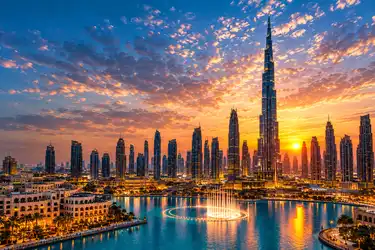
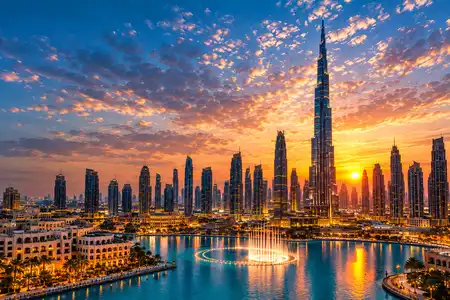
finalizdo projeto

diff --git a/local.html b/local.html
@@ -31,12 +31,19 @@
    </header>
    <nav></nav>
    <main>
+
       <picture class="piture-img">
+         <div class="text-hero">
+            <p>WELCOME TO DUBAI</p>
+            <h2>The City of <br> <span>Dreams</span></h2>
+            <p>A unique destination with<br>modern life, stuning architecture<br>and rich culture.</p>
+
+         </div>
          <source media="(min-width: 1000px)" srcset="imagens/local-grande.webp">
          <source media="(min-width: 500px)" srcset="imagens/local-media.webp">
-         <img src="imagens/local-pequena1.webp" alt="Imagen por do sol Dubai murj Burj khalifa">
+         <img src="imagens/local-pequena.webp" alt="Imagen por do sol Dubai murj Burj khalifa">
       </picture>
-      <section class="cards">
+      <section class="cards cad1">
          <div class="header">
             <img src="imagens/templo-branco.svg" alt="Icone de um museu na cor branca">
             <h2>Date</h2>
@@ -100,7 +107,7 @@
             </div>
          </aside>
       </section>
-      <section class="cards">
+      <section class="cards cad2">
          <div class="header">
             <img src="imagens/clear_day.svg" alt="Icone do Sol em um dia com ceu limpo">
             <h2>Weather</h2>
@@ -109,40 +116,40 @@
             <picture class="weather-img">
                <img class="img-clima" src="imagens/snowing.webp" alt="Iconde uma nuvem nevando">
             </picture>
-                  <div class="container-linha">
-                     <img src="imagens/thermometer.png" alt="Icone de um globo">
-                     <div class="name-value">
-                        <p class="name">Temperature:</p>
-                        <p class="value" id="temperature">10</p>
-                     </div>
-                  </div>
-                  <div class="container-linha">
-                     <img src="imagens/cold.svg" alt="Icone de um globo">
-                     <div class="name-value">
-                        <p class="name">Conditions:</p>
-                        <p class="value">Clear Sky</p>
-                     </div>
-                  </div>
-                  <div class="container-linha">
-                     <img src="imagens/wind.svg" alt="Icone de um globo">
-                     <div class="name-value">
-                        <p class="name">Wind:</p>
-                        <p class="value" id="wind">5</p>
-                     </div>
-                  </div>
-                  <div class="container-linha">
-                     <img src="imagens/thermometer.png" alt="Icone de um globo">
-                     <div class="name-value">
-                        <p class="name">Wind Chill:</p>
-                        <p class="value" id="windChill"></p>
-                     </div>
-                  </div>
+            <div class="container-linha">
+               <img src="imagens/thermometer.png" alt="Icone de um globo">
+               <div class="name-value">
+                  <p class="name">Temperature:</p>
+                  <p class="value" id="temperature">10</p>
+               </div>
+            </div>
+            <div class="container-linha">
+               <img src="imagens/cold.svg" alt="Icone de um globo">
+               <div class="name-value">
+                  <p class="name">Conditions:</p>
+                  <p class="value">Clear Sky</p>
+               </div>
+            </div>
+            <div class="container-linha">
+               <img src="imagens/wind.svg" alt="Icone de um globo">
+               <div class="name-value">
+                  <p class="name">Wind:</p>
+                  <p class="value" id="wind">5</p>
+               </div>
+            </div>
+            <div class="container-linha">
+               <img src="imagens/thermometer.png" alt="Icone de um globo">
+               <div class="name-value">
+                  <p class="name">Wind Chill:</p>
+                  <p class="value" id="windChill"></p>
+               </div>
+            </div>
          </aside>
       </section>
    </main>
    <footer>
-      <p>&copy;<span id="anoAtual"></span></p>Laércio Santos | BYU-Pathway | <span class="folha-dir">🌿</span> São Paulo
-      - Brasil</p>
+      <p>&copy;<span id="anoAtual"></span>Laércio Santos | BYU-Pathway | <span class="folha-dir">🌿</span> São Paulo
+         - Brasil</p>
       <p>Última modificação: <img src="imagens/calendar.svg" alt="Iconde de um calendario"><span
             id="ultimaModificacao"></span></p>
 

diff --git a/estilos/mobile.css b/estilos/mobile.css
@@ -104,13 +104,37 @@ header::after {
 
 }
 
-picture {
+.piture-img {
+    display: flex;
     position: relative;
     width: 100%;
     height: auto;
     border-bottom-right-radius: 16px;
     overflow: hidden;
+    margin: 0 auto;
 
+}
+
+.text-hero {
+    font-family: var(--font-family);
+    letter-spacing: 1px;
+    position: absolute;
+    padding: 1.5rem;
+    color: var(--cor-texto-claro);
+}
+
+.text-hero p:nth-child(1) {
+    margin-bottom: 1rem;
+}
+
+.text-hero h2 {
+    font-size: 2rem;
+    font-weight: 700;
+    margin-bottom: 1rem;
+}
+
+.text-hero h2 span {
+    color: #00b588;
 }
 
 .piture-img::before {
@@ -181,6 +205,12 @@ aside {
 
 .value{
     color: var(--cor-texto-principal);
+}
+
+footer {
+    width: 100%;
+    justify-items: center;
+    align-content: center;
 }
 
 @media (max-width: 767px) {

diff --git a/estilos/desktop.css b/estilos/desktop.css
@@ -1,3 +1,42 @@
 /* 🖥 Desktop grande 1440px ou mais */
 
-@media (min-width: 1440px) {}
+@media (min-width: 1440px) {
+
+    main {
+        display: flex;
+        margin: 0 auto;
+        max-width: 1440px;
+        position: relative;
+    }
+
+    .text-hero {
+        width: 600px;
+        height: auto;
+        top: 15%;
+        left: 40%;
+    }
+
+    .text-hero h2 {
+        font-size: 6rem;
+    }
+         .text-hero p {
+            font-size: 2rem;
+         }
+
+    .cards {
+        max-width: 400px;
+        position: absolute;
+    }
+
+    .cad1 {
+        top: 16px;
+        left: 16px;
+    }
+
+    .cad2 {
+        top: 600px;
+        right: 16px;
+    }
+
+
+}
